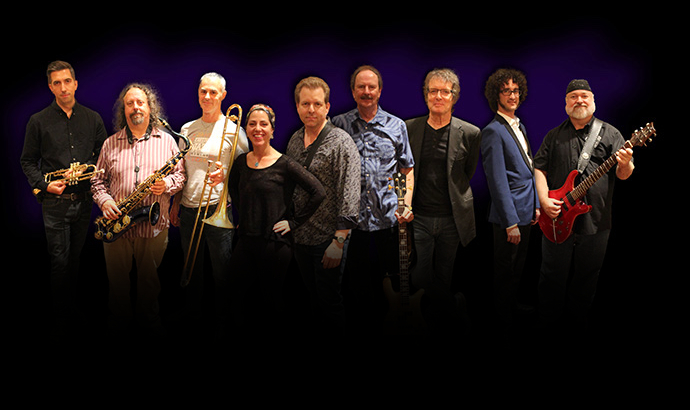
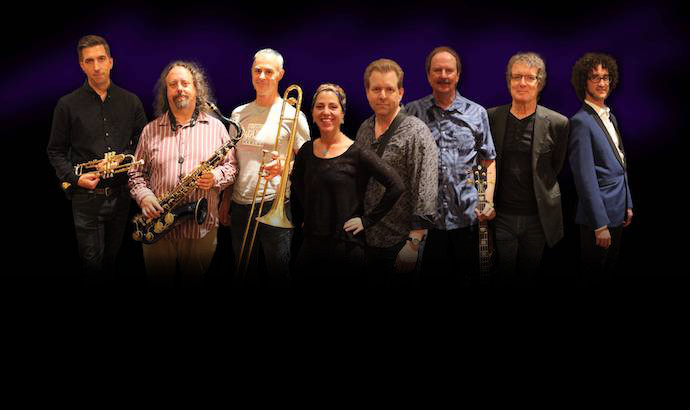
Updated band pics, added 2018 NYE, removed G+ link

diff --git a/band.html b/band.html
@@ -50,19 +50,6 @@
                         </tr>
                     </table>
                 </div>
-                <div id="plusOneLink">
-                    <!-- Place this tag where you want the +1 button to render -->
-                    <g:plusone size="medium" count="false" href="http://www.8trackmind.ca"></g:plusone>
-
-                    <!-- Place this tag after the last plusone tag -->
-                    <script type="text/javascript">
-                      (function() {
-                        var po = document.createElement('script'); po.type = 'text/javascript'; po.async = true;
-                        po.src = 'https://apis.google.com/js/plusone.js';
-                        var s = document.getElementsByTagName('script')[0]; s.parentNode.insertBefore(po, s);
-                      })();
-                    </script>
-                </div>
                 <div id="likeLink">
                     <a href="http://www.facebook.com/8TrackMindBand" target="top"><img src="images/fb-icon.png"/></a>
                     <iframe src="http://www.facebook.com/plugins/like.php?app_id=123117371101855&amp;href=http%3A%2F%2Fwww.facebook.com%2F8TrackMindBand&amp;send=false&amp;layout=button_count&amp;width=90&amp;show_faces=false&amp;action=like&amp;colorscheme=light&amp;font&amp;height=21" scrolling="no" frameborder="0" style="border:none; overflow:hidden; width:90px; height:21px;" allowTransparency="true"></iframe>

diff --git a/contact.html b/contact.html
@@ -48,19 +48,6 @@
                         </tr>
                     </table>
                 </div>
-                <div id="plusOneLink">
-                    <!-- Place this tag where you want the +1 button to render -->
-                    <g:plusone size="medium" count="false" href="http://www.8trackmind.ca"></g:plusone>
-
-                    <!-- Place this tag after the last plusone tag -->
-                    <script type="text/javascript">
-                      (function() {
-                        var po = document.createElement('script'); po.type = 'text/javascript'; po.async = true;
-                        po.src = 'https://apis.google.com/js/plusone.js';
-                        var s = document.getElementsByTagName('script')[0]; s.parentNode.insertBefore(po, s);
-                      })();
-                    </script>
-                </div>
                 <div id="likeLink">
                     <a href="http://www.facebook.com/8TrackMindBand" target="top"><img src="images/fb-icon.png"/></a>
                     <iframe src="http://www.facebook.com/plugins/like.php?app_id=123117371101855&amp;href=http%3A%2F%2Fwww.facebook.com%2F8TrackMindBand&amp;send=false&amp;layout=button_count&amp;width=90&amp;show_faces=false&amp;action=like&amp;colorscheme=light&amp;font&amp;height=21" scrolling="no" frameborder="0" style="border:none; overflow:hidden; width:90px; height:21px;" allowTransparency="true"></iframe>

diff --git a/gallery.html b/gallery.html
@@ -66,19 +66,6 @@
                         </tr>
                     </table>
                 </div>
-                <div id="plusOneLink">
-                    <!-- Place this tag where you want the +1 button to render -->
-                    <g:plusone size="medium" count="false" href="http://www.8trackmind.ca"></g:plusone>
-
-                    <!-- Place this tag after the last plusone tag -->
-                    <script type="text/javascript">
-                      (function() {
-                        var po = document.createElement('script'); po.type = 'text/javascript'; po.async = true;
-                        po.src = 'https://apis.google.com/js/plusone.js';
-                        var s = document.getElementsByTagName('script')[0]; s.parentNode.insertBefore(po, s);
-                      })();
-                    </script>
-                </div>
                 <div id="likeLink">
                     <a href="http://www.facebook.com/8TrackMindBand" target="top"><img src="images/fb-icon.png"/></a>
                     <iframe src="http://www.facebook.com/plugins/like.php?app_id=123117371101855&amp;href=http%3A%2F%2Fwww.facebook.com%2F8TrackMindBand&amp;send=false&amp;layout=button_count&amp;width=90&amp;show_faces=false&amp;action=like&amp;colorscheme=light&amp;font&amp;height=21" scrolling="no" frameborder="0" style="border:none; overflow:hidden; width:90px; height:21px;" allowTransparency="true"></iframe>

diff --git a/index.html b/index.html
@@ -51,19 +51,6 @@
                         </tr>
                     </table>
                 </div>
-                <div id="plusOneLink">
-                    <!-- Place this tag where you want the +1 button to render -->
-                    <g:plusone size="medium" count="false" href="http://www.8trackmind.ca"></g:plusone>
-
-                    <!-- Place this tag after the last plusone tag -->
-                    <script type="text/javascript">
-                      (function() {
-                        var po = document.createElement('script'); po.type = 'text/javascript'; po.async = true;
-                        po.src = 'https://apis.google.com/js/plusone.js';
-                        var s = document.getElementsByTagName('script')[0]; s.parentNode.insertBefore(po, s);
-                      })();
-                    </script>
-                </div>
                 <div id="likeLink">
                     <a href="http://www.facebook.com/8TrackMindBand" target="top"><img src="images/fb-icon.png"/></a>
                     <iframe src="http://www.facebook.com/plugins/like.php?app_id=123117371101855&amp;href=http%3A%2F%2Fwww.facebook.com%2F8TrackMindBand&amp;send=false&amp;layout=button_count&amp;width=90&amp;show_faces=false&amp;action=like&amp;colorscheme=light&amp;font&amp;height=21" scrolling="no" frameborder="0" style="border:none; overflow:hidden; width:90px; height:21px;" allowTransparency="true"></iframe>

diff --git a/media.html b/media.html
@@ -57,19 +57,6 @@
                         </tr>
                     </table>
                 </div>
-                <div id="plusOneLink">
-                    <!-- Place this tag where you want the +1 button to render -->
-                    <g:plusone size="medium" count="false" href="http://www.8trackmind.ca"></g:plusone>
-
-                    <!-- Place this tag after the last plusone tag -->
-                    <script type="text/javascript">
-                      (function() {
-                        var po = document.createElement('script'); po.type = 'text/javascript'; po.async = true;
-                        po.src = 'https://apis.google.com/js/plusone.js';
-                        var s = document.getElementsByTagName('script')[0]; s.parentNode.insertBefore(po, s);
-                      })();
-                    </script>
-                </div>
                 <div id="likeLink">
                     <a href="http://www.facebook.com/8TrackMindBand" target="top"><img src="images/fb-icon.png"/></a>
                     <iframe src="http://www.facebook.com/plugins/like.php?app_id=123117371101855&amp;href=http%3A%2F%2Fwww.facebook.com%2F8TrackMindBand&amp;send=false&amp;layout=button_count&amp;width=90&amp;show_faces=false&amp;action=like&amp;colorscheme=light&amp;font&amp;height=21" scrolling="no" frameborder="0" style="border:none; overflow:hidden; width:90px; height:21px;" allowTransparency="true"></iframe>

diff --git a/music.html b/music.html
@@ -58,19 +58,6 @@
                         </tr>
                     </table>
                 </div>
-                <div id="plusOneLink">
-                    <!-- Place this tag where you want the +1 button to render -->
-                    <g:plusone size="medium" count="false" href="http://www.8trackmind.ca"></g:plusone>
-
-                    <!-- Place this tag after the last plusone tag -->
-                    <script type="text/javascript">
-                      (function() {
-                        var po = document.createElement('script'); po.type = 'text/javascript'; po.async = true;
-                        po.src = 'https://apis.google.com/js/plusone.js';
-                        var s = document.getElementsByTagName('script')[0]; s.parentNode.insertBefore(po, s);
-                      })();
-                    </script>
-                </div>
                 <div id="likeLink">
                     <a href="http://www.facebook.com/8TrackMindBand" target="top"><img src="images/fb-icon.png"/></a>
                     <iframe src="http://www.facebook.com/plugins/like.php?app_id=123117371101855&amp;href=http%3A%2F%2Fwww.facebook.com%2F8TrackMindBand&amp;send=false&amp;layout=button_count&amp;width=90&amp;show_faces=false&amp;action=like&amp;colorscheme=light&amp;font&amp;height=21" scrolling="no" frameborder="0" style="border:none; overflow:hidden; width:90px; height:21px;" allowTransparency="true"></iframe>

diff --git a/schedule.html b/schedule.html
@@ -51,19 +51,6 @@
                         </tr>
                     </table>
                 </div>
-                <div id="plusOneLink">
-                    <!-- Place this tag where you want the +1 button to render -->
-                    <g:plusone size="medium" count="false" href="http://www.8trackmind.ca"></g:plusone>
-
-                    <!-- Place this tag after the last plusone tag -->
-                    <script type="text/javascript">
-                      (function() {
-                        var po = document.createElement('script'); po.type = 'text/javascript'; po.async = true;
-                        po.src = 'https://apis.google.com/js/plusone.js';
-                        var s = document.getElementsByTagName('script')[0]; s.parentNode.insertBefore(po, s);
-                      })();
-                    </script>
-                </div>
                 <div id="likeLink">
                     <a href="http://www.facebook.com/8TrackMindBand" target="top"><img src="images/fb-icon.png"/></a>
                     <iframe src="http://www.facebook.com/plugins/like.php?app_id=123117371101855&amp;href=http%3A%2F%2Fwww.facebook.com%2F8TrackMindBand&amp;send=false&amp;layout=button_count&amp;width=90&amp;show_faces=false&amp;action=like&amp;colorscheme=light&amp;font&amp;height=21" scrolling="no" frameborder="0" style="border:none; overflow:hidden; width:90px; height:21px;" allowTransparency="true"></iframe>

diff --git a/scripts/shows.js b/scripts/shows.js
@@ -78,7 +78,7 @@ function addAllShows() {
 	addShow(new Show(2018, 6, 29, "Delta Fredericton", "Fredericton, NB", "River Jam", "11:00 PM"));
 	addShow(new Show(2018, 8, 8, "", "Fredericton Junction, NB", "Come Home Week", "4:00 PM"));
 	addShow(new Show(2018, 8, 25, "", "Nackawic, NB", "Festival on the Bend", ""));
-	//addShow(new Show(2018, 12, 31, "Algonquin Hotel", "St. Andrews, NB", "New Year's Eve", ""));
+	addShow(new Show(2018, 12, 31, "Algonquin Hotel", "St. Andrews, NB", "New Year's Eve", ""));
 }
 
 var shows = new Array();

diff --git a/styles/default.css b/styles/default.css
@@ -86,6 +86,7 @@ img#mainImg {
     top: 40;
     right: 0;
     z-index: 1;
+    padding-top: 20px;
 }
 
 h2.heading {
@@ -155,15 +156,6 @@ img#logo {
     width: 277px;
     height: 148px;
     z-index: 3;
-}
-
-div#plusOneLink {
-    margin: 0;
-    padding: 0;
-    z-index: 4;
-    position: absolute;
-    top: 17px;
-    left: 792px;
 }
 
 div#likeLink {
